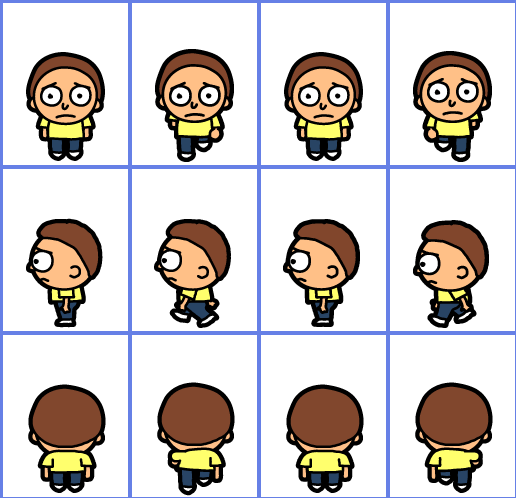
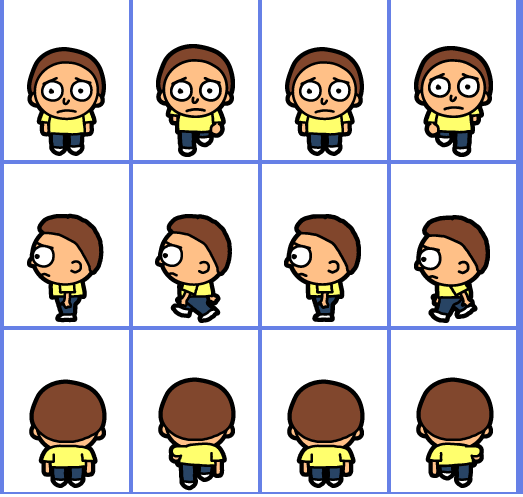
add sprite

Changed region(s): [[0.0, 0.0, 1.0, 1.0]]

diff --git a/Projet/JeuCvRick&Morty/js/script.js b/Projet/JeuCvRick&Morty/js/script.js
@@ -23,32 +23,145 @@ class Coordinate {
 }
 
 class Character extends Coordinate {
-	constructor(x, y, srcSprite, width, height) {
+	constructor(img, x, y, width, height) {
 		super(x, y);
 		this.width = width;
 		this.height = height;
-		this.animation = getAnimationCharacter(srcSprite);
+		this.animation = getAnimationCharacter(img);
+		this.speed = 2;
+		this.arrowMove = [{
+				keyCode: 38,
+				keyIsUp: false
+			}, //up
+			{
+				keyCode: 40,
+				keyIsUp: false
+			}, //down
+			{
+				keyCode: 37,
+				keyIsUp: false
+			}, //left
+			{
+				keyCode: 39,
+				keyIsUp: false
+			} //right
+		];
+	}
+	move() {
+		this.arrowMove.map(item => {
+			if (item.keyIsUp) {
+				switch (item.keyCode) {
+					case 38: //up
+						//this.setY(this.getY() - this.speed);
+						break;
+					case 40: //down
+						//this.setY(this.getY() + this.speed);
+						break;
+					case 37: //left
+						this.setX(this.getX() - this.speed);
+						this.animation.direction = "left";
+						break;
+					case 39: //right
+						this.setX(this.getX() + this.speed);
+						this.animation.direction = "right";
+						break;
+					default:
+						return;
+				}
+			}
+		});
 
+	}
+	draw(ctx) {
+		this.move();
+		//console.log(this.arrowMove);
+		/* 		ctx.fillStyle = "red";
+				ctx.fillRect(this.x, this.y, this.width, this.height);
+				ctx.fillRect(this.x + 200, this.y, this.width, this.height);
+				ctx.fillRect(this.x + 400, this.y, this.width, this.height);
+				ctx.fillRect(this.x + 600, this.y, this.width, this.height);
+				ctx.fillRect(this.x + 800, this.y, this.width, this.height); */
+		switch (this.animation.direction) {
+			case "stayStill":
+				this.animation.stayStill.draw(ctx, this.x, this.y, this.width, this.height);
+				break;
+			case "left":
+				this.animation.left[this.animation.frame % 4].draw(ctx, this.x, this.y, this.width, this.height);
+				this.animation.frame++;
+				break;
+			case "right":
+				this.animation.left[this.animation.frame % 4].draw(ctx, this.x, this.y, this.width, this.height);
+				this.animation.frame++;
+				break;
+			default:
+				break;
+		}
 	}
 }
 
 document.addEventListener("DOMContentLoaded", function () {
-	var canvasBack = document.getElementById("gameBackGround");
-	var canvasGame = document.getElementById("gameCanvas");
-	var canvasUI = document.getElementById("gameUI");
-	var ctxBack = canvasBack.getContext("2d");
-	var ctxGame = canvasGame.getContext("2d");
-	var ctxUI = canvasUI.getContext("2d");
-	var rick = new Character(10, 20, "../assets/character/Rick.png");
 
-	ctxBack.fillStyle = "black";
-	ctxBack.fillRect(0, 0, canvasBack.width, canvasBack.height);
-	
-	
-	window.requestAnimationFrame(loop);
+	function initGame(tabAssets) {
+		var canvasBack = document.getElementById("gameBackGround");
+		var canvasGame = document.getElementById("gameCanvas");
+		var canvasUI = document.getElementById("gameUI");
+		var ctxBack = canvasBack.getContext("2d");
+		var ctxGame = canvasGame.getContext("2d");
+		var ctxUI = canvasUI.getContext("2d");
 
-	function loop() {
-		//gameDraw
+		var rick = new Character(tabAssets[0], 10, 20, 60, 79);
+		rick.draw(ctxGame);
+		var morty = new Character(tabAssets[1], 10, 200, 60, 79);
+		morty.draw(ctxGame);
+
+		//BACKGROUND////////////
+		ctxBack.fillStyle = "black";
+		ctxBack.fillRect(0, 0, canvasBack.width, canvasBack.height);
+		///////////////////////
+		window.addEventListener(
+			"keydown",
+			function (event) {
+				if (event.defaultPrevented) {
+					return;
+				}
+				rick.arrowMove.map(elem => {
+					if (elem.keyCode == event.keyCode) {
+						elem.keyIsUp = true;
+					}
+				});
+				event.preventDefault();
+			},
+			true
+		);
+		window.addEventListener(
+			"keyup",
+			function (event) {
+				if (event.defaultPrevented) {
+					return;
+				}
+				rick.arrowMove.map(elem => {
+					if (elem.keyCode == event.keyCode) {
+						rick.animation.frame = 0;
+						rick.animation.direction = "stayStill"
+						elem.keyIsUp = false;
+					}
+				});
+				event.preventDefault();
+			},
+			true
+		);
+
 		window.requestAnimationFrame(loop);
+
+		function loop() {
+			//gameDraw
+			ctxGame.clearRect(0, 0, canvasGame.width, canvasGame.height);
+			rick.draw(ctxGame);
+			morty.draw(ctxGame);
+			window.requestAnimationFrame(loop);
+		}
 	}
+
+	var tabSrc = ["assets/character/Rick.png", "assets/character/Morty.png"]
+	loadAssets(tabSrc, initGame);
 });

diff --git a/Projet/JeuCvRick&Morty/js/sprite.js b/Projet/JeuCvRick&Morty/js/sprite.js
@@ -1,7 +1,7 @@
 class Sprite {
-    constructor(srcImg, sx, sy, sWidth, sHeight) {
-        var img = new Image();
-        img.src = srcImg;
+    constructor(img, sx, sy, sWidth, sHeight) {
+        /* var img = new Image(sWidth,sHeight);
+        img.src = srcImg; */
         this.img = img;
         this.sX = sx;
         this.sY = sy;
@@ -10,30 +10,43 @@ class Sprite {
     }
     draw(ctx, dx, dy, dWidth, dHeight) {
         ctx.drawImage(this.img, this.sX, this.sY, this.sWidth, this.sHeight, dx, dy, dWidth, dHeight);
+
     }
 }
 
-// width = 129, height = 166 516 * 498
-// stay still x = 3 y = 3 
-// animation left x = 3 y = 258
-
-
-
-function getAnimationCharacter(srcImg) {
-    var sWidth = 129;
-    var sHeight = 166;
-    var posX = 258;
-    var posY = 3;
+function getAnimationCharacter(img) {
+    // console.log(srcImg);
+    var sWidth = 120;
+    var sHeight = 158;
+    var interval = 4.5;
+    var posX = 9;
+    var posY = 167;
     var tabSprite = [];
     for (let i = 0; i < 4; i++) {
-        tabSprite.push(new Sprite(srcImg, posX, posY, sWidth, sHeight));
-        posx += sWidth + 3;
+        tabSprite.push(new Sprite(img, posX, posY, sWidth, sHeight));
+        posX += sWidth + interval*2 ;
     }
     var objAnimation = {
-        stayStill: new Sprite(srcImg, 3, 3, 129, 166),
+        stayStill: new Sprite(img, 7, 1, 120, 156),
         left: tabSprite,
         right: tabSprite,
-        frame : 0,
+        frame: 0,
+        direction:"stayStill"
     }
     return objAnimation;
+}
+
+function loadAssets(tabSrc, callback) {
+    var tabRetImg = [];
+    tabSrc.map(function (src, index) {
+        var oneImg = new Image();
+        oneImg.src = src;
+        oneImg.onload = function () {
+            if (tabSrc.length - (index + 1) == 0) {
+                callback(tabRetImg);
+            }
+        }
+        tabRetImg.push(oneImg);
+    });
+
 }

diff --git a/Projet/JeuCV2/script.js b/Projet/JeuCV2/script.js
@@ -310,7 +310,6 @@ class Game {
 			}
 		});
 		this.player.draw(ctx, this.canvasWidth, this.canvasHeight);
-
 	}
 }
 
